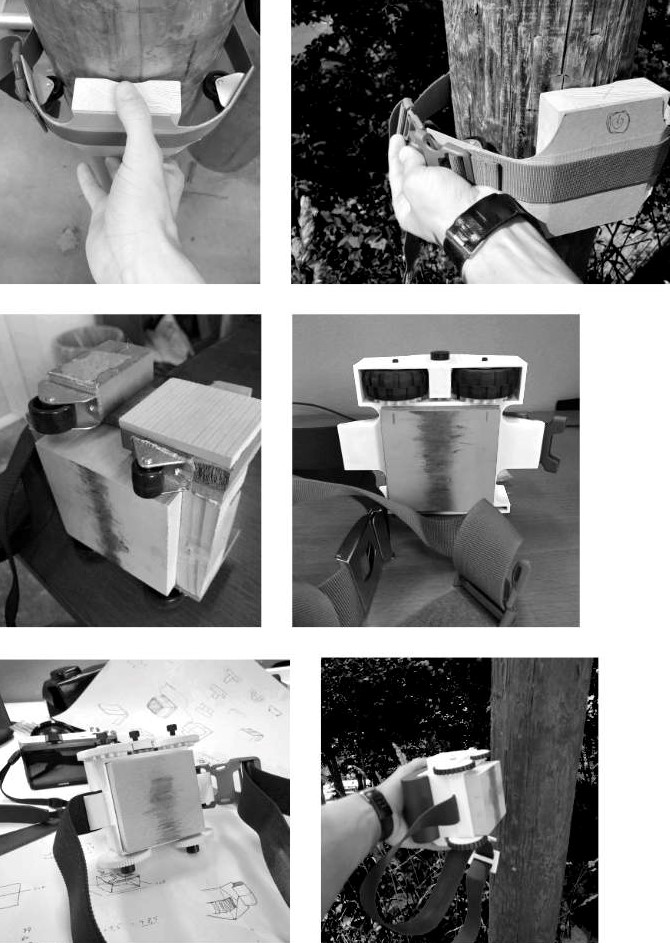
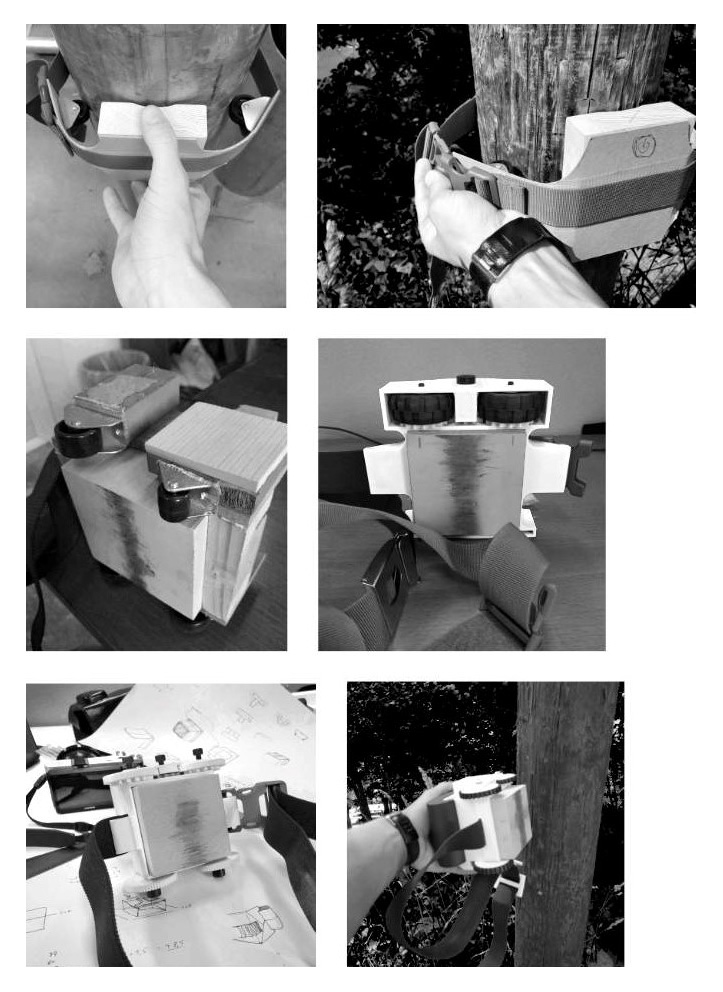
fix BV

diff --git a/birdsview.html b/birdsview.html
@@ -46,7 +46,7 @@
             <h3>Før vi gikk i gang med å utvikle en klatrerobot, designet jeg en manuell
                 håndholdt skanner.</h3>
 
-            <img style="padding: 20px; background-color: white;" src="img/skanner_skisser.jpg" alt=" Ups! Her skulle det vært et bilde. ">
+            <img src="img/skanner_skisser.jpg" alt=" Ups! Her skulle det vært et bilde. ">
             <h3>I utgangspunktet høres oppgaven «lag en håndholdt skanner» ikke så kompleks ut, hvis man fjerner det
                 tekniske aspektet. Likevel er det overraskende mye å tenke på:
                 <ol>
@@ -62,7 +62,7 @@
                 Dette er de viktigste tekniske kravene i problemstillingen, men da har jeg ikke engang nevnt brukerkravene...
             </h3>
 
-            <img style="padding: 28px; background-color: white;" src="img/skanner_skissemodeller.jpg" alt=" Ups! Her skulle det vært et bilde. ">
+            <img src="img/skanner_skissemodeller.jpg" alt=" Ups! Her skulle det vært et bilde. ">
             <h3>Stroppen løser kravet om at radarkomponenten må være inntil trestolpen. Den gjør det enkelt for brukeren
                 å føre skanneren rundt stolpen under en skann. Ingen trestolper er dog fullstendig sirkulære. Derfor er
                 stroppen elastisk for å unngå at skanneren kiler seg fast. Dette gjør det også enklere å feste skanneren
